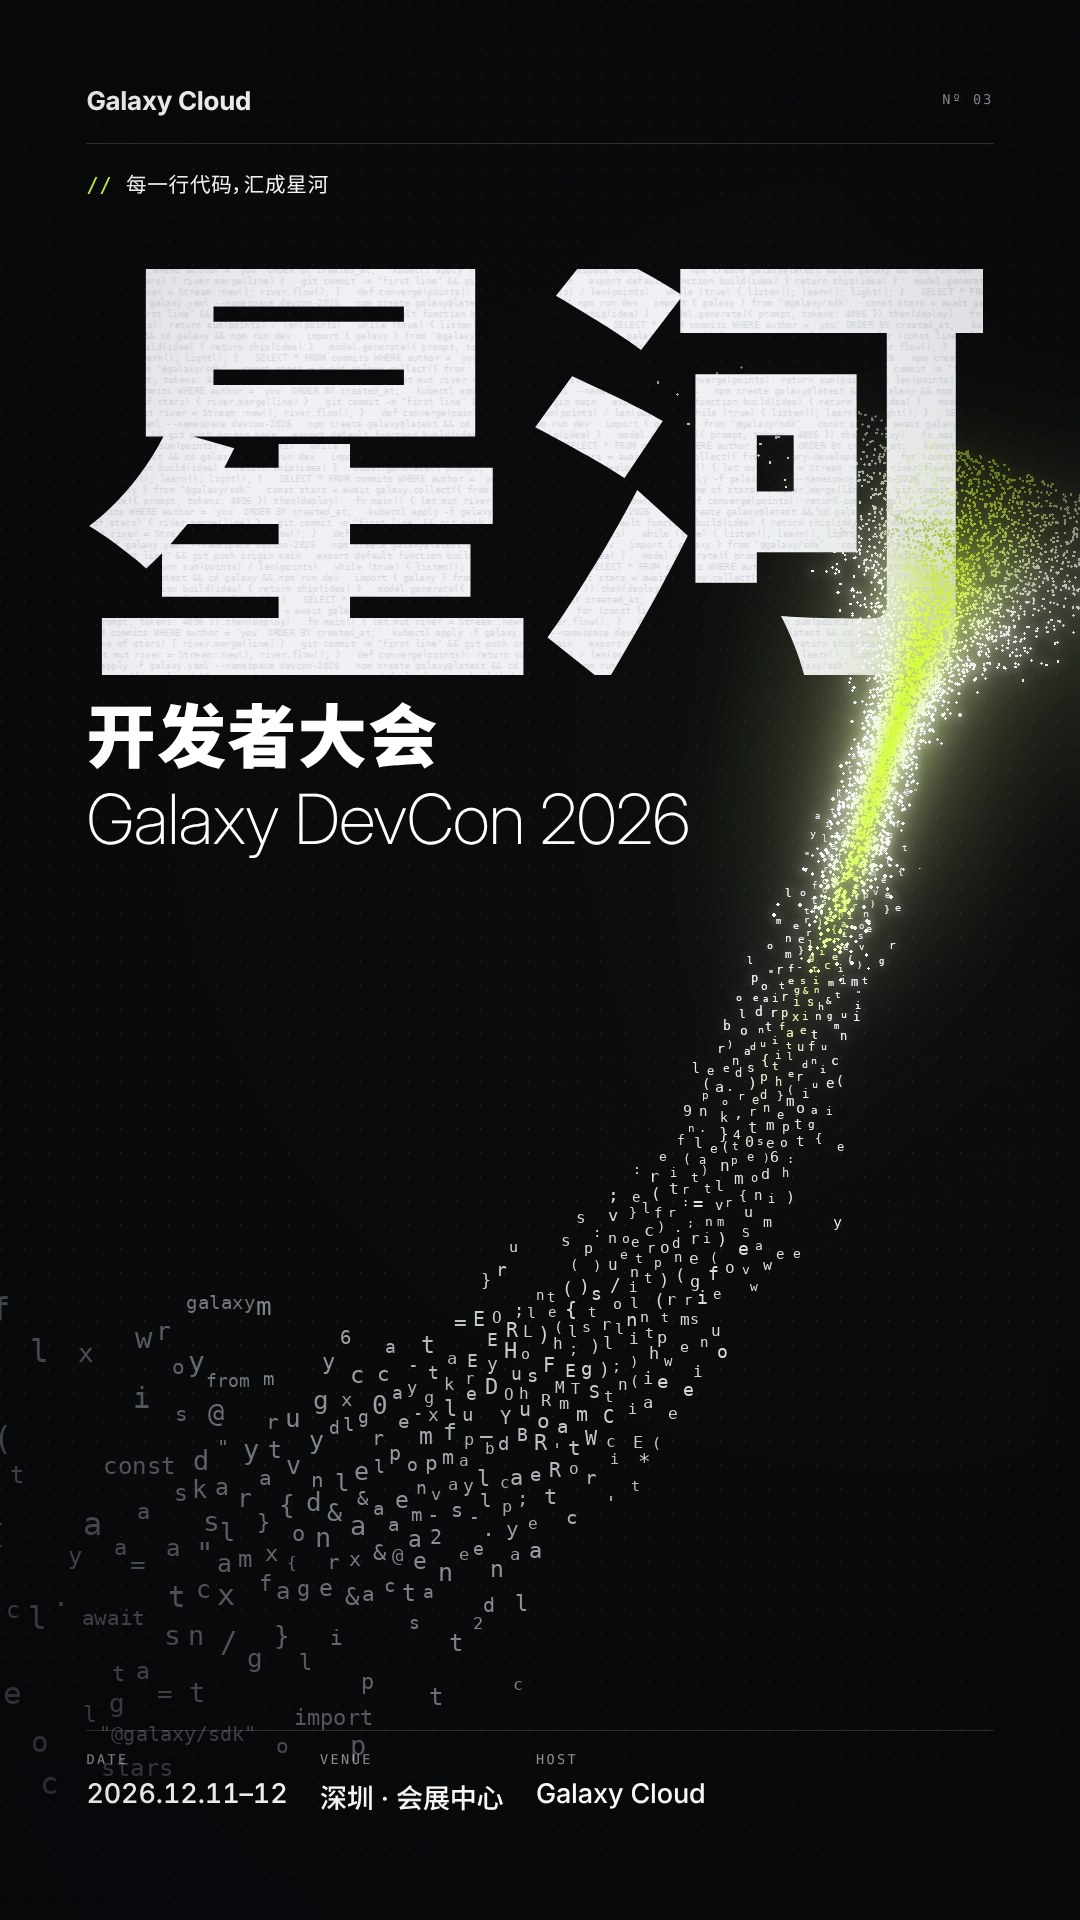
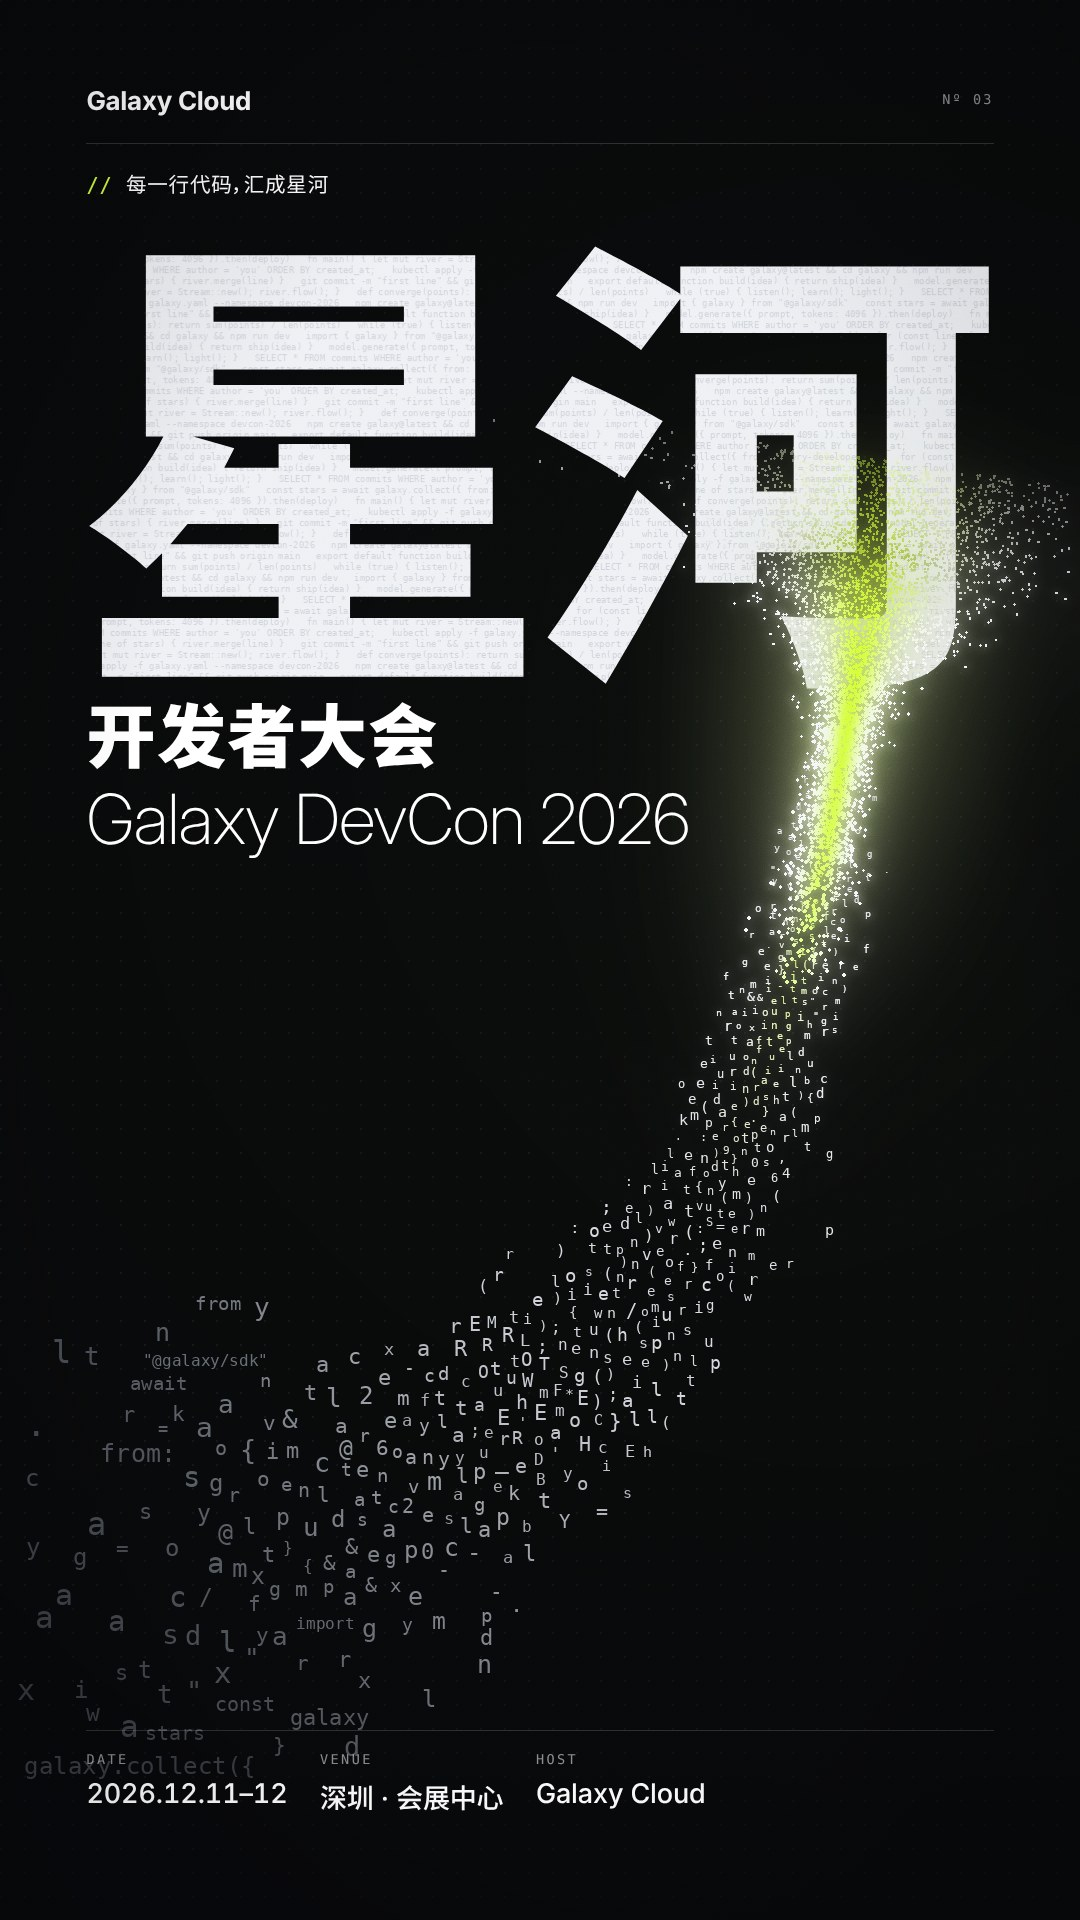
Fix clipped giant type and cropped flow edges
- kv.html: clip-text fills get paint padding (ink-box measurement
  unchanged), so strokes beyond the line box are no longer cut
- glyph_flow.py: only keep glyphs and dots fully inside the frame
- lockup_stack option; example paths keep flow tails inside frame
- contemporary.md / QA: 'fully inside or boldly bleed' rule
- example config now points at the v3 generative heroes

Claude-Session: https://claude.ai/code/session_018XP7ZsHq4uNgpqYNwfhGvH

diff --git a/templates/kv.html b/templates/kv.html
@@ -139,16 +139,29 @@
   const rule = (x, y, w, strong) => { const d = document.createElement('div'); d.className = 'rule'; Object.assign(d.style, { left: px(x), top: px(y), width: px(w) }); if (strong) d.style.background = 'var(--rule-strong)'; document.getElementById('deco').appendChild(d); return d; };
   const vrule = (x, y, h) => { const d = document.createElement('div'); d.className = 'vrule'; Object.assign(d.style, { left: px(x), top: px(y), height: px(h) }); document.getElementById('deco').appendChild(d); };
   const tick = (x, y) => { const d = document.createElement('div'); d.className = 'tick'; Object.assign(d.style, { left: px(x - 1.1 * u), top: px(y - 1.1 * u) }); document.getElementById('deco').appendChild(d); };
-  const box = e => e.getBoundingClientRect();
+  // 用 background-clip:text 填充的字需要额外的绘制内边距，否则笔画超出行框的部分会被切掉。
+  // box() 返回去掉这层内边距后的"墨迹框"，排版计算不受影响。
+  const PADY = 0.22, PADX = 0.1;
+  const box = e => {
+    const r = e.getBoundingClientRect();
+    if (!e.dataset || !e.dataset.clip) return r;
+    const fs = parseFloat(getComputedStyle(e).fontSize), py = PADY * fs, pxx = PADX * fs;
+    return { left: r.left + pxx, right: r.right - pxx, top: r.top + py, bottom: r.bottom - py, width: r.width - 2 * pxx, height: r.height - 2 * py };
+  };
+  const clipText = (e, styles) => {
+    Object.assign(e.style, styles, { WebkitBackgroundClip: 'text', backgroundClip: 'text', color: 'transparent',
+      padding: `${PADY}em ${PADX}em`, margin: `-${PADY}em -${PADX}em` });
+    e.dataset.clip = '1';
+  };
   // 等比缩放到最大宽度
   const fitW = (e, maxW) => { let s = parseFloat(e.style.fontSize || getComputedStyle(e).fontSize), i = 0; while (box(e).width > maxW + 0.5 && i++ < 60) { s *= 0.96; e.style.fontSize = px(s); } };
   // 精确填满宽度（巨字用）
   const fillW = (e, targetW) => { const s = parseFloat(getComputedStyle(e).fontSize); const w = box(e).width; e.style.fontSize = px(s * targetW / w); };
   const titleFill = (e, mode) => {
     if (mode === 'gradient') {
-      Object.assign(e.style, { backgroundImage: `linear-gradient(100deg, ${P.text} 0%, ${P.glow} 55%, ${P.accent} 100%)`, WebkitBackgroundClip: 'text', backgroundClip: 'text', color: 'transparent' });
+      clipText(e, { backgroundImage: `linear-gradient(100deg, ${P.text} 0%, ${P.glow} 55%, ${P.accent} 100%)` });
     } else if (mode === 'hero' && hero) {
-      Object.assign(e.style, { backgroundImage: `linear-gradient(rgba(255,255,255,.18),rgba(255,255,255,.18)), url("${hero}")`, backgroundSize: `${W}px ${H}px`, backgroundAttachment: 'fixed', WebkitBackgroundClip: 'text', backgroundClip: 'text', color: 'transparent' });
+      clipText(e, { backgroundImage: `linear-gradient(rgba(255,255,255,.18),rgba(255,255,255,.18)), url("${hero}")`, backgroundSize: `${W}px ${H}px`, backgroundAttachment: 'fixed' });
     } else if (mode === 'outline') {
       Object.assign(e.style, { color: 'transparent', WebkitTextStroke: `${Math.max(1, 0.12 * u)}px ${P.text}` });
     } else if (mode === 'accent') {
@@ -268,7 +281,7 @@
     const fill = pick('title_fill', 'fade');
     if (fill === 'fade') {
       // 巨字下沿淡出到环境里（像立在雾/水中），不是一块硬贴片
-      Object.assign(mk.style, { backgroundImage: `linear-gradient(180deg, ${hexA(P.text === '#FFFFFF' ? '#FFFFFF' : P.text, 0.95)} 0%, ${hexA(P.glow, 0.75)} 55%, ${hexA(P.accent, 0.0)} 100%)`, WebkitBackgroundClip: 'text', backgroundClip: 'text', color: 'transparent' });
+      clipText(mk, { backgroundImage: `linear-gradient(180deg, ${hexA(P.text === '#FFFFFF' ? '#FFFFFF' : P.text, 0.95)} 0%, ${hexA(P.glow, 0.75)} 55%, ${hexA(P.accent, 0.0)} 100%)` });
     } else titleFill(mk, fill);
     if (pick('mark_opacity', 1) !== 1) mk.style.opacity = pick('mark_opacity', 1);
     return { hazeDir: 'bottom' };
@@ -284,7 +297,7 @@
     else if (box(mk).width > W - 2 * m) fitW(mk, W - 2 * m);
     const fill = pick('mark_fill', 'texture'), texture = pick('mark_texture', null);
     if (fill === 'texture' && texture) {
-      Object.assign(mk.style, { backgroundImage: `url("${texture}")`, backgroundSize: `${W}px ${H}px`, backgroundAttachment: 'fixed', WebkitBackgroundClip: 'text', backgroundClip: 'text', color: 'transparent' });
+      clipText(mk, { backgroundImage: `url("${texture}")`, backgroundSize: `${W}px ${H}px`, backgroundAttachment: 'fixed' });
     } else titleFill(mk, fill === 'texture' ? 'solid' : fill);
     const mb = box(mk);
     const mx = side === 'right' && !portrait ? W - m - mb.width : m;
@@ -298,7 +311,7 @@
     if (T.en) {
       const en = el('front', 'disp', esc(arr(T.en).join(' ')), { fontSize: px((portrait ? 6.4 : 5.6) * u), fontWeight: 200, letterSpacing: '-0.01em', lineHeight: 1.1 });
       en.style.left = px(mx + box(rest).width + 2.4 * u); en.style.top = px(y + (box(rest).height - box(en).height) / 2);
-      if (box(en).right > W - m) { en.style.left = px(mx); en.style.top = px(y + box(rest).height + 0.6 * u); }
+      if (box(en).right > W - m || pick('lockup_stack', false)) { en.style.left = px(mx); en.style.top = px(y + box(rest).height + 0.6 * u); }
     }
     // slogan：写成一行代码注释，放在顶栏下
     if (T.slogan && !tiny) {

diff --git a/scripts/glyph_flow.py b/scripts/glyph_flow.py
@@ -143,6 +143,12 @@ def main():
     CELL = max(4, int(5 * S))
     occ = np.zeros((H // CELL + 4, W // CELL + 4), bool)  # 占位网格：字符和片段互不重叠
 
+    EDGE = 10 * S
+
+    def inside(p, wpx, hpx):
+        # 字符和片段必须完整地在画面内：被画框切掉一半的字看起来像裁坏了
+        return EDGE < p[0] - wpx / 2 and p[0] + wpx / 2 < W - EDGE and EDGE < p[1] - hpx / 2 and p[1] + hpx / 2 < H - EDGE
+
     def free(p, wpx, hpx):
         x0, x1 = int((p[0] - wpx / 2) // CELL) + 2, int((p[0] + wpx / 2) // CELL) + 3
         y0, y1 = int((p[1] - hpx / 2) // CELL) + 2, int((p[1] + hpx / 2) // CELL) + 3
@@ -177,17 +183,23 @@ def main():
         rgba = tuple(int(v) for v in col) + (int(255 * alpha),)
         if t < 0.22 and rng.random() < 0.5:
             tok = tokens[ti % len(tokens)]
+            if not inside(p, size * 0.82 * 0.6 * len(tok), size * 0.82):
+                continue
             if not free(p, size * 0.82 * 0.6 * len(tok), size * 0.82):
                 continue
             ti += 1
             d.text(tuple(p), tok, font=F(size * 0.82), fill=rgba, anchor="mm")
         elif size > 8.5 * S:
+            if not inside(p, size * 0.62, size):
+                continue
             if not free(p, size * 0.62, size * 0.9):
                 continue
             ch = chars[ci % len(chars)]; ci += 1
             d.text(tuple(p), ch, font=F(size), fill=rgba, anchor="mm")
         else:
             r = max(0.7, size * 0.16)
+            if not inside(p, 2 * r, 2 * r):
+                continue
             d.ellipse([p[0] - r, p[1] - r, p[0] + r, p[1] + r], fill=rgba)
 
     # 光晕：只给汇聚段，散落的个体保持清晰

diff --git a/examples/galaxy-devcon/concept.md b/examples/galaxy-devcon/concept.md
@@ -155,3 +155,14 @@ slogan 候选（需用户确认）：
 - **主图是替身图**：光点的质感、银河的细节都不如真实摄影或生图模型；正式出图后要重新做第 7 步评分。
 - **主屏 swiss 版图文一体只有 3 分**：标题与画面没有穿插。可以用 bleed 版做主屏，swiss 版作为信息更完整的备选。
 - **方向 B、C 未出图**：提示词已在 `prompts/`。
+
+### 第 4 轮：修正裁切（用户评审后）
+
+**反馈**：图形和文字看起来被裁减了。
+
+**原因**：
+1. 巨字"星河"用 `background-clip: text` 填充纹理，背景只画在行框内，而行高小于 1，笔画上下端（"河"的点、"星"的顶横）被切平
+2. 字符流散落段的代码片段贴着画面左、下边缘，被切掉一半
+3. 竖版、方图、头图里流的尾巴（散开的星）超出右边缘
+
+**修改**：模板给填充字加绘制内边距（排版测量不受影响）；glyph_flow.py 只保留完整落在画面内的字符和光点；调整各尺寸 `--path` 终点；方图的英文名换行，避免被流穿过。skill 增加"要么完整，要么大胆出血"规则和对应的硬性检查。

diff --git a/references/qa-checklist.md b/references/qa-checklist.md
@@ -26,6 +26,7 @@
 
 **延展**
 - [ ] 每个尺寸主体都在画面里，没有被裁掉关键部位
+- [ ] 放大检查所有边缘：没有被画框或行框"切掉一点点"的字、笔画、图形末端（要么完整，要么明确出血）
 - [ ] 横竖版都有专用主图；方图和头图的主体没有和标题重叠
 
 ---
@@ -68,6 +69,7 @@
 |---|---|
 | 文字压在主体上 | 调 `focal`；换 `text_side`；该尺寸换排版系统 |
 | 浅色主图上白字看不清 | `theme: light`；或加大 `fx.haze` |
+| 字或图形被切掉一小块 | 巨字笔画被切：确认填充字有绘制内边距（模板的 clipText）；图形末端被切：调整 `--path` 终点或 `focal` |
 | 巨字看起来简陋、撑不住 | 巨字必须有内部细节或穿插：`mark_fill: texture`、`hero_fg`（contemporary.md 第三节） |
 | 巨字太抢、遮住了场景 | `title_fill: fade`（默认）或 `outline`；降低 `mark_width` |
 | 巨字和主体没有前后关系 | 生成 `hero_fg`（scripts/cutout.py）；环境元素（银河、光束）也可以进前景 |

diff --git a/references/contemporary.md b/references/contemporary.md
@@ -48,6 +48,14 @@
 
 **禁止**：巨字用渐变填充 + 下沿淡出作为唯一处理（v0.3 示例第 2 轮就是这个问题）。
 
+### 画框裁切：要么完整，要么大胆出血
+
+被画框"切掉一点点"的东西看起来像做坏了，而不是设计：
+- 字和图形**要么完整在画面内**（离边缘有呼吸空间），**要么明确出血**（裁掉 30% 以上，一看就是有意的）
+- 不要切掉笔画末端、字符的一小半、图形的尖端或尾巴
+- 用纹理 / 渐变填充（`background-clip: text`）的巨字特别容易被行框切掉笔画的上下端，模板已经自动加了绘制内边距；改模板时不要去掉
+- 生成式图层的末端（流的尾巴、散开的星）要落在画面内，调 `--path` 的终点，不要靠裁切
+
 ## 四、生成式图层
 
 很多当代技术 KV 的主画面是用代码生成的，而不是画出来或拍出来的。它天然具备三个优点：细节无限（放大仍然锐利）、和技术主题同源、每个尺寸可以单独生成而不是裁切。
